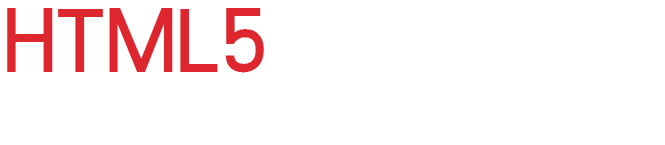
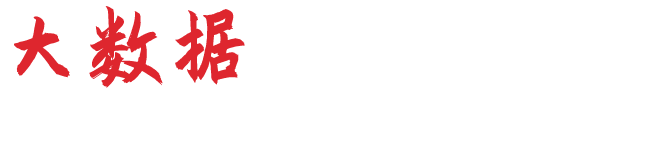
首页修改

Changed region(s): [[0.0, 0.0276, 0.4211, 0.6069]]

diff --git a/index.html b/index.html
@@ -126,7 +126,7 @@ tabId:"#wk_about_menu",tabTag:"a",conId:"#wk_about_div",conTag:"div.wk_aaa",act:
           <li class="wk_nav-line"></li>
           <li class="wk_nav-bullet-container" data-index="2"><a class="nav-link" href="javascript:void(0)">
             <div class="nav-bullet"></div>
-            <div class="nav-text">响应式网站</div>
+            <div class="nav-text">大数据系统平台开发</div>
             </a></li>
           <li class="wk_nav-line"> </li>
         </ul>
